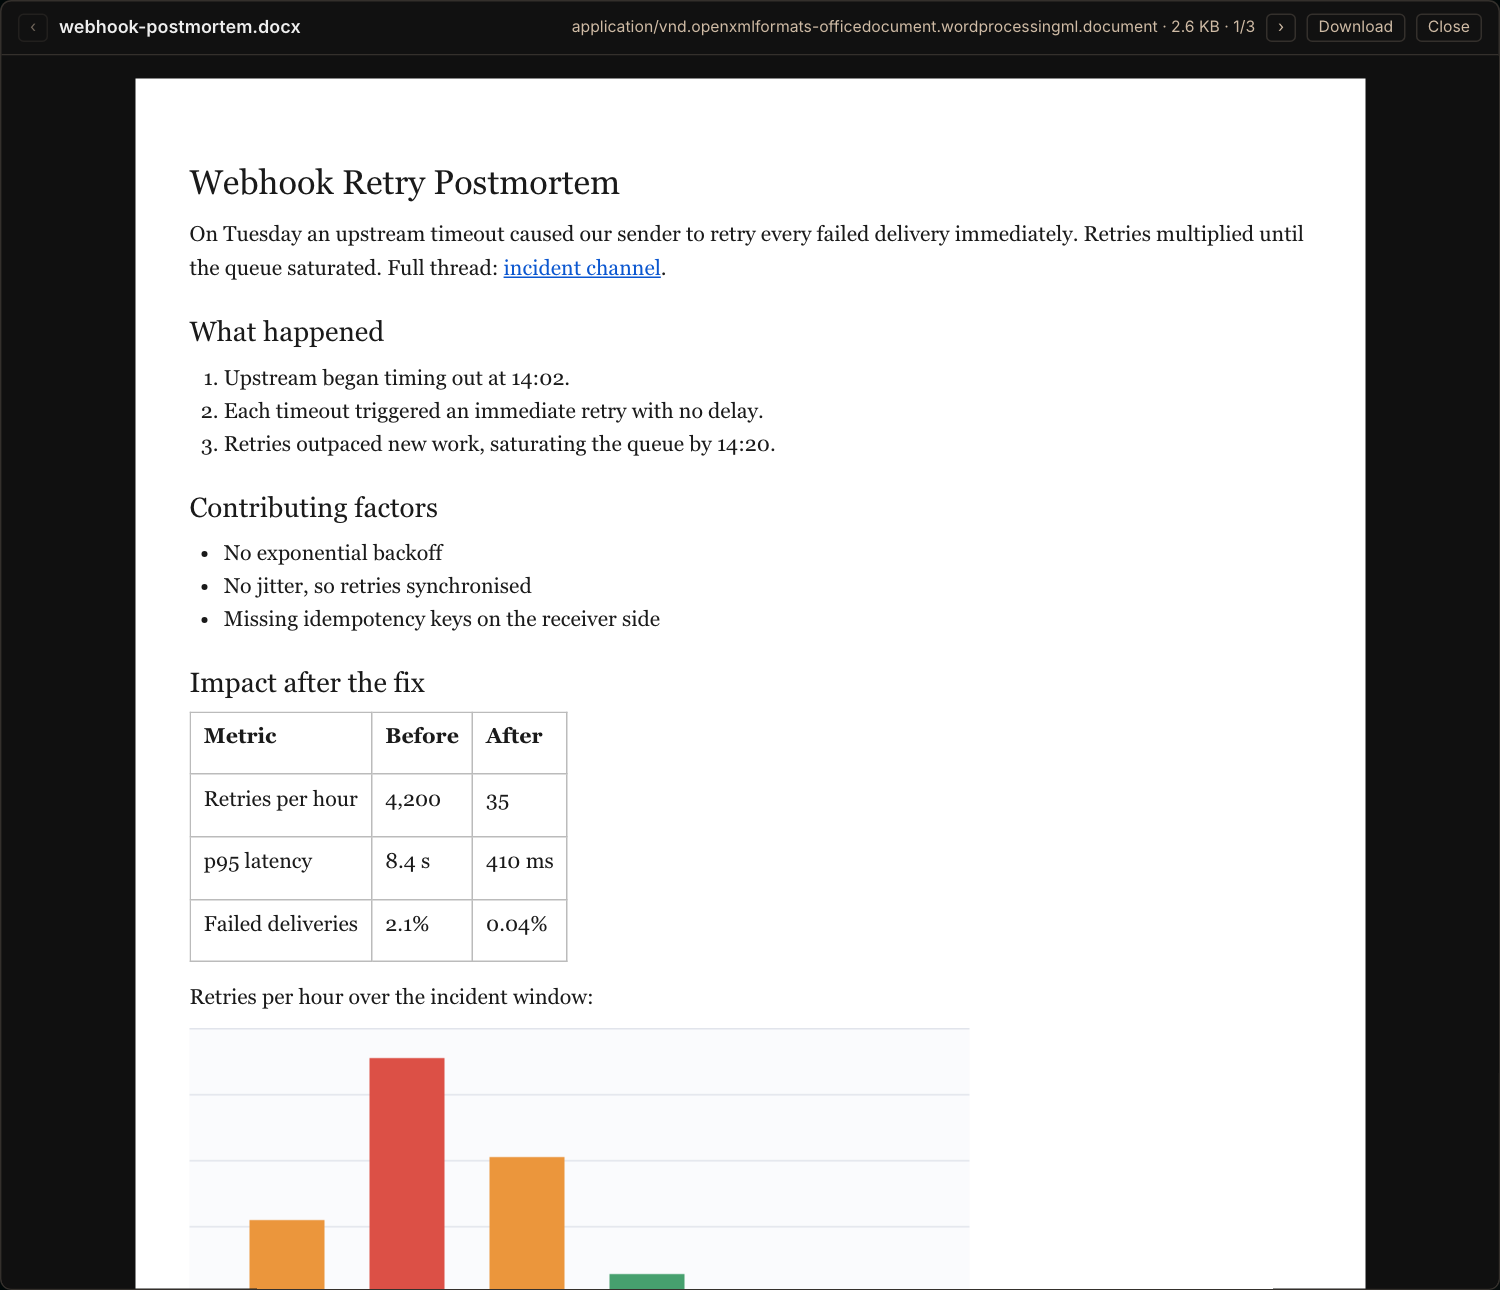
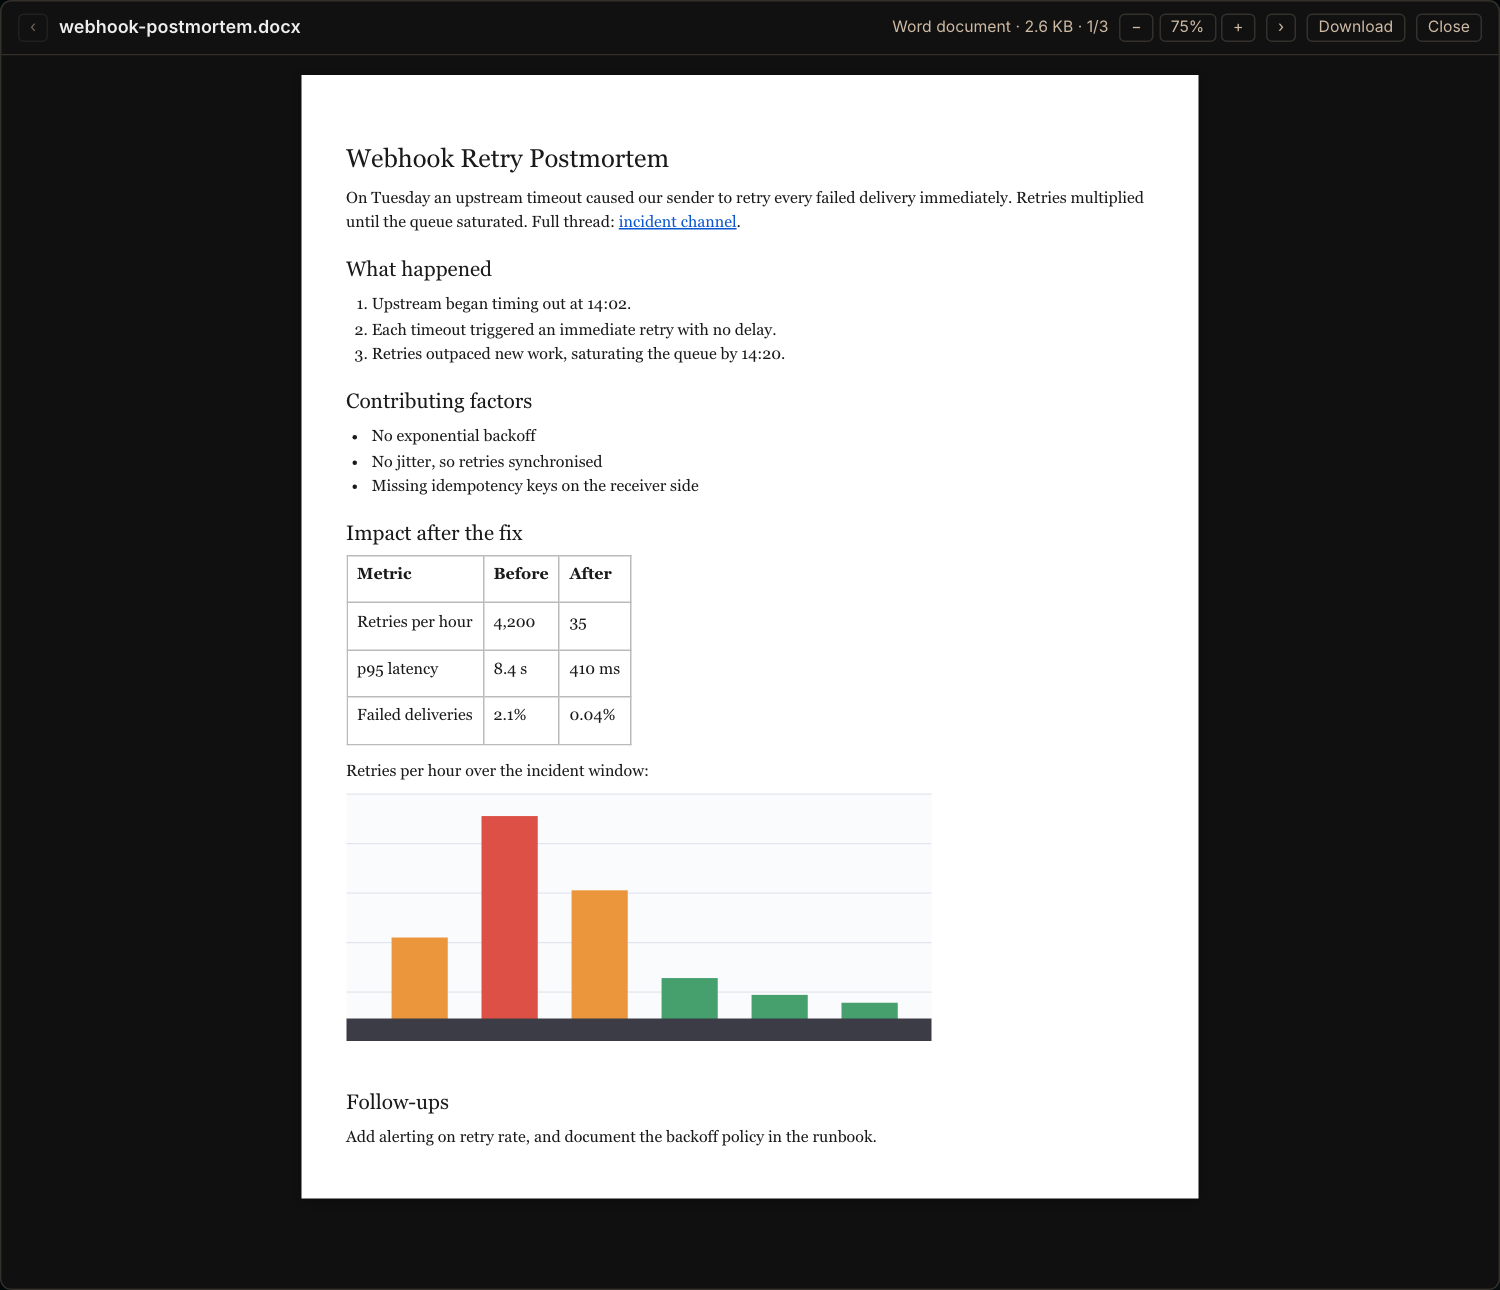
Word preview: compact default zoom (75%) with zoom controls
Claude-Session: https://claude.ai/code/session_01AKQUYMjxu5fpStrQRvrJWZ

diff --git a/dashboard/dist/index.js b/dashboard/dist/index.js
@@ -566,7 +566,7 @@
     img.src = url;
     img.alt = alt;
     img.loading = "lazy";
-    if (width > 0 && width < 4e3) img.style.width = width + "px";
+    if (width > 0 && width < 4e3) img.style.width = "calc(" + width + "px * var(--kap-zoom, 1))";
     img.style.maxWidth = "100%";
     img.style.height = "auto";
     parent.appendChild(img);
@@ -795,6 +795,23 @@
       if (n < 1024 * 1024) return (n / 1024).toFixed(1) + " KB";
       return (n / 1024 / 1024).toFixed(1) + " MB";
     }
+    const ZOOM_KEY = "hermes.kanban.docZoom";
+    const ZOOM_STEPS = [0.5, 0.625, 0.75, 0.875, 1, 1.25, 1.5, 1.75];
+    const ZOOM_DEFAULT = 0.75;
+    function readZoom() {
+      try {
+        const v = parseFloat(window.localStorage.getItem(ZOOM_KEY));
+        if (ZOOM_STEPS.indexOf(v) >= 0) return v;
+      } catch (_e) {
+      }
+      return ZOOM_DEFAULT;
+    }
+    function writeZoom(v) {
+      try {
+        window.localStorage.setItem(ZOOM_KEY, String(v));
+      } catch (_e) {
+      }
+    }
     function board() {
       try {
         return (window.localStorage.getItem(LS_BOARD_KEY) || "").trim() || null;
@@ -863,10 +880,22 @@
       const close = el2("button", "kap-btn", "Close");
       close.title = "Close (Esc)";
       close.setAttribute("data-testid", "kap-close");
-      [prev, next, dl, close].forEach(function(b) {
+      const zoomOut = el2("button", "kap-btn", "\u2212");
+      zoomOut.title = "Zoom out (-)";
+      zoomOut.setAttribute("data-testid", "kap-zoom-out");
+      const zoomVal = el2("button", "kap-btn kap-zoom-val", "");
+      zoomVal.title = "Reset zoom (0)";
+      zoomVal.setAttribute("data-testid", "kap-zoom-reset");
+      const zoomIn = el2("button", "kap-btn", "+");
+      zoomIn.title = "Zoom in (+)";
+      zoomIn.setAttribute("data-testid", "kap-zoom-in");
+      const zoomBox = el2("span", "kap-zoom");
+      zoomBox.hidden = true;
+      zoomBox.append(zoomOut, zoomVal, zoomIn);
+      [prev, next, dl, close, zoomOut, zoomVal, zoomIn].forEach(function(b) {
         b.type = "button";
       });
-      head.append(prev, title, meta, next, dl, close);
+      head.append(prev, title, meta, zoomBox, next, dl, close);
       const body = el2("div", "kap-body");
       body.setAttribute("data-testid", "kap-body");
       box.append(head, body);
@@ -877,6 +906,30 @@
       function note(text, isErr) {
         body.replaceChildren(el2("div", "kap-note" + (isErr ? " kap-note-err" : ""), text));
       }
+      let zoom = readZoom();
+      function applyZoom(z) {
+        zoom = z;
+        writeZoom(z);
+        body.style.setProperty("--kap-zoom", String(z));
+        zoomVal.textContent = Math.round(z * 100) + "%";
+        zoomOut.disabled = z <= ZOOM_STEPS[0];
+        zoomIn.disabled = z >= ZOOM_STEPS[ZOOM_STEPS.length - 1];
+      }
+      function stepZoom(dir) {
+        const i2 = ZOOM_STEPS.indexOf(zoom);
+        const n = ZOOM_STEPS[Math.max(0, Math.min(ZOOM_STEPS.length - 1, i2 + dir))];
+        applyZoom(n);
+      }
+      zoomOut.addEventListener("click", function() {
+        stepZoom(-1);
+      });
+      zoomIn.addEventListener("click", function() {
+        stepZoom(1);
+      });
+      zoomVal.addEventListener("click", function() {
+        applyZoom(ZOOM_DEFAULT);
+      });
+      applyZoom(zoom);
       function show(i2) {
         if (i2 < 0 || i2 >= list.length) return;
         state.idx = i2;
@@ -897,6 +950,7 @@
         prev.disabled = i2 === 0;
         next.disabled = i2 === list.length - 1;
         const kind = kindOf(att);
+        zoomBox.hidden = kind !== "docx";
         note("Loading\u2026");
         SDK.authedFetch(withBoard(API + "/attachments/" + att.id)).then(function(resp) {
           if (!resp.ok) return resp.text().then(function(t) {
@@ -989,6 +1043,15 @@
           e.preventDefault();
           e.stopPropagation();
           closeModal();
+        } else if (!zoomBox.hidden && (e.key === "+" || e.key === "=")) {
+          e.preventDefault();
+          stepZoom(1);
+        } else if (!zoomBox.hidden && (e.key === "-" || e.key === "_")) {
+          e.preventDefault();
+          stepZoom(-1);
+        } else if (!zoomBox.hidden && e.key === "0") {
+          e.preventDefault();
+          applyZoom(ZOOM_DEFAULT);
         } else if (e.key === "ArrowLeft") {
           e.stopPropagation();
           show(state.idx - 1);

diff --git a/src/index.js b/src/index.js
@@ -70,6 +70,16 @@ import { docxToElement } from "./docx.js";
     return (n / 1024 / 1024).toFixed(1) + " MB";
   }
 
+  // Word-document zoom: 1 = the base size; the default is deliberately smaller so a page fits comfortably.
+  const ZOOM_KEY = "hermes.kanban.docZoom";
+  const ZOOM_STEPS = [0.5, 0.625, 0.75, 0.875, 1, 1.25, 1.5, 1.75];
+  const ZOOM_DEFAULT = 0.75;
+  function readZoom() {
+    try { const v = parseFloat(window.localStorage.getItem(ZOOM_KEY)); if (ZOOM_STEPS.indexOf(v) >= 0) return v; } catch (_e) { /* ignore */ }
+    return ZOOM_DEFAULT;
+  }
+  function writeZoom(v) { try { window.localStorage.setItem(ZOOM_KEY, String(v)); } catch (_e) { /* ignore */ } }
+
   function board() {
     try { return (window.localStorage.getItem(LS_BOARD_KEY) || "").trim() || null; } catch (_e) { return null; }
   }
@@ -128,8 +138,14 @@ import { docxToElement } from "./docx.js";
     const next = el("button", "kap-btn", "›"); next.title = "Next attachment"; next.setAttribute("data-testid", "kap-next");
     const dl = el("button", "kap-btn", "Download"); dl.setAttribute("data-testid", "kap-download");
     const close = el("button", "kap-btn", "Close"); close.title = "Close (Esc)"; close.setAttribute("data-testid", "kap-close");
-    [prev, next, dl, close].forEach(function (b) { b.type = "button"; });
-    head.append(prev, title, meta, next, dl, close);
+    const zoomOut = el("button", "kap-btn", "−"); zoomOut.title = "Zoom out (-)"; zoomOut.setAttribute("data-testid", "kap-zoom-out");
+    const zoomVal = el("button", "kap-btn kap-zoom-val", ""); zoomVal.title = "Reset zoom (0)"; zoomVal.setAttribute("data-testid", "kap-zoom-reset");
+    const zoomIn = el("button", "kap-btn", "+"); zoomIn.title = "Zoom in (+)"; zoomIn.setAttribute("data-testid", "kap-zoom-in");
+    const zoomBox = el("span", "kap-zoom");
+    zoomBox.hidden = true;
+    zoomBox.append(zoomOut, zoomVal, zoomIn);
+    [prev, next, dl, close, zoomOut, zoomVal, zoomIn].forEach(function (b) { b.type = "button"; });
+    head.append(prev, title, meta, zoomBox, next, dl, close);
     const body = el("div", "kap-body");
     body.setAttribute("data-testid", "kap-body");
     box.append(head, body);
@@ -142,6 +158,24 @@ import { docxToElement } from "./docx.js";
     function note(text, isErr) {
       body.replaceChildren(el("div", "kap-note" + (isErr ? " kap-note-err" : ""), text));
     }
+
+    let zoom = readZoom();
+    function applyZoom(z) {
+      zoom = z; writeZoom(z);
+      body.style.setProperty("--kap-zoom", String(z));
+      zoomVal.textContent = Math.round(z * 100) + "%";
+      zoomOut.disabled = z <= ZOOM_STEPS[0];
+      zoomIn.disabled = z >= ZOOM_STEPS[ZOOM_STEPS.length - 1];
+    }
+    function stepZoom(dir) {
+      const i = ZOOM_STEPS.indexOf(zoom);
+      const n = ZOOM_STEPS[Math.max(0, Math.min(ZOOM_STEPS.length - 1, i + dir))];
+      applyZoom(n);
+    }
+    zoomOut.addEventListener("click", function () { stepZoom(-1); });
+    zoomIn.addEventListener("click", function () { stepZoom(1); });
+    zoomVal.addEventListener("click", function () { applyZoom(ZOOM_DEFAULT); });
+    applyZoom(zoom);
 
     function show(i) {
       if (i < 0 || i >= list.length) return;
@@ -158,6 +192,7 @@ import { docxToElement } from "./docx.js";
       prev.disabled = i === 0;
       next.disabled = i === list.length - 1;
       const kind = kindOf(att);
+      zoomBox.hidden = kind !== "docx";
       note("Loading…");
       SDK.authedFetch(withBoard(API + "/attachments/" + att.id))
         .then(function (resp) {
@@ -218,6 +253,9 @@ import { docxToElement } from "./docx.js";
     state.onKey = function (e) {
       // Capture phase + stopPropagation so Esc closes only the preview, not the drawer behind it.
       if (e.key === "Escape") { e.preventDefault(); e.stopPropagation(); closeModal(); }
+      else if (!zoomBox.hidden && (e.key === "+" || e.key === "=")) { e.preventDefault(); stepZoom(1); }
+      else if (!zoomBox.hidden && (e.key === "-" || e.key === "_")) { e.preventDefault(); stepZoom(-1); }
+      else if (!zoomBox.hidden && e.key === "0") { e.preventDefault(); applyZoom(ZOOM_DEFAULT); }
       else if (e.key === "ArrowLeft") { e.stopPropagation(); show(state.idx - 1); }
       else if (e.key === "ArrowRight") { e.stopPropagation(); show(state.idx + 1); }
     };

diff --git a/dashboard/dist/style.css b/dashboard/dist/style.css
@@ -83,20 +83,26 @@
 .kap-note { padding: 1rem; color: var(--color-muted-foreground); font-size: 0.85rem; text-align: center; }
 .kap-note-err { color: var(--color-destructive, #f66); }
 
-/* Word (.docx) preview: a readable "page" regardless of dashboard theme. */
+/* Word (.docx) preview: a readable "page" regardless of dashboard theme.
+   Everything is sized in em from one font-size, so --kap-zoom scales the whole page. */
+.kap-zoom { display: inline-flex; align-items: center; gap: 0.25rem; }
+.kap-zoom[hidden] { display: none; }
+.kap-zoom-val { min-width: 3.2em; text-align: center; }
 .kap-body:has(> .kap-doc) { display: block; background: color-mix(in srgb, var(--color-foreground, #000) 8%, var(--color-background, #111)); }
 .kap-doc {
   box-sizing: border-box;
-  max-width: 820px;
-  margin: 1rem auto;
-  padding: 2rem 2.4rem;
+  font-size: calc(0.95rem * var(--kap-zoom, 0.75));
+  width: min(56em, calc(100% - 1.5rem));
+  margin: 0.9rem auto;
+  padding: 2.4em 2.8em;
   background: #fff;
   color: #1a1a1a;
   font-family: Georgia, "Times New Roman", serif;
-  font-size: 0.95rem;
   line-height: 1.55;
   overflow-wrap: anywhere;
+  box-shadow: 0 1px 6px rgba(0, 0, 0, 0.35);
 }
+@media (max-width: 640px) { .kap-doc { padding: 1.6em 1.4em; } }
 .kap-doc p { margin: 0 0 0.7em; }
 .kap-doc h1, .kap-doc h2, .kap-doc h3, .kap-doc h4, .kap-doc h5, .kap-doc h6 { margin: 1.1em 0 0.4em; line-height: 1.25; }
 .kap-doc h1 { font-size: 1.6em; } .kap-doc h2 { font-size: 1.3em; } .kap-doc h3 { font-size: 1.15em; }
@@ -106,3 +112,5 @@
 .kap-doc-table { overflow-x: auto; margin: 0 0 0.8em; }
 .kap-doc table { border-collapse: collapse; }
 .kap-doc td { border: 1px solid #bbb; padding: 0.3em 0.6em; vertical-align: top; }
+.kap-doc img { max-width: 100%; height: auto; }
+.kap-zoom .kap-btn:not(.kap-zoom-val) { font-size: 1rem; line-height: 1; min-width: 1.9rem; padding: 0.1rem 0.4rem; }

diff --git a/src/docx.js b/src/docx.js
@@ -95,7 +95,7 @@ function renderImage(node, parent, state) {
   state.urls.push(url);
   const img = el("img");
   img.src = url; img.alt = alt; img.loading = "lazy";
-  if (width > 0 && width < 4000) img.style.width = width + "px";
+  if (width > 0 && width < 4000) img.style.width = "calc(" + width + "px * var(--kap-zoom, 1))";
   img.style.maxWidth = "100%"; img.style.height = "auto";
   parent.appendChild(img);
 }

diff --git a/README.md b/README.md
@@ -23,7 +23,7 @@ Word documents render as a readable page, including headings, lists, tables, lin
 - **Download** button in the modal.
 - **Esc closes the preview only**, not the drawer behind it.
 - Unknown file types show a clear "no preview" note with Download as the fallback.
-- Word documents render as a readable page: headings, bold/italic/underline, links, bulleted and numbered lists, tables. Embedded PNG/JPEG/GIF/WebP/BMP images are shown inline. SVG/EMF/WMF images, headers/footers, footnotes and tracked deletions are not (the modal says how many images were skipped). It is a preview, not a layout engine; Download for the real thing. Legacy `.doc`, `.xlsx` and `.pptx` get the "no preview" note.
+- Word documents render as a readable page that fits the window at a compact default zoom (75%), with **− / +** buttons (or the `-`, `+` and `0` keys) to zoom from 50% to 175%; the zoom is remembered per browser. They show: headings, bold/italic/underline, links, bulleted and numbered lists, tables. Embedded PNG/JPEG/GIF/WebP/BMP images are shown inline. SVG/EMF/WMF images, headers/footers, footnotes and tracked deletions are not (the modal says how many images were skipped). It is a preview, not a layout engine; Download for the real thing. Legacy `.doc`, `.xlsx` and `.pptx` get the "no preview" note.
 - Text previews are capped at 512 KB; the modal says so when a file is truncated.
 
 ## Install
